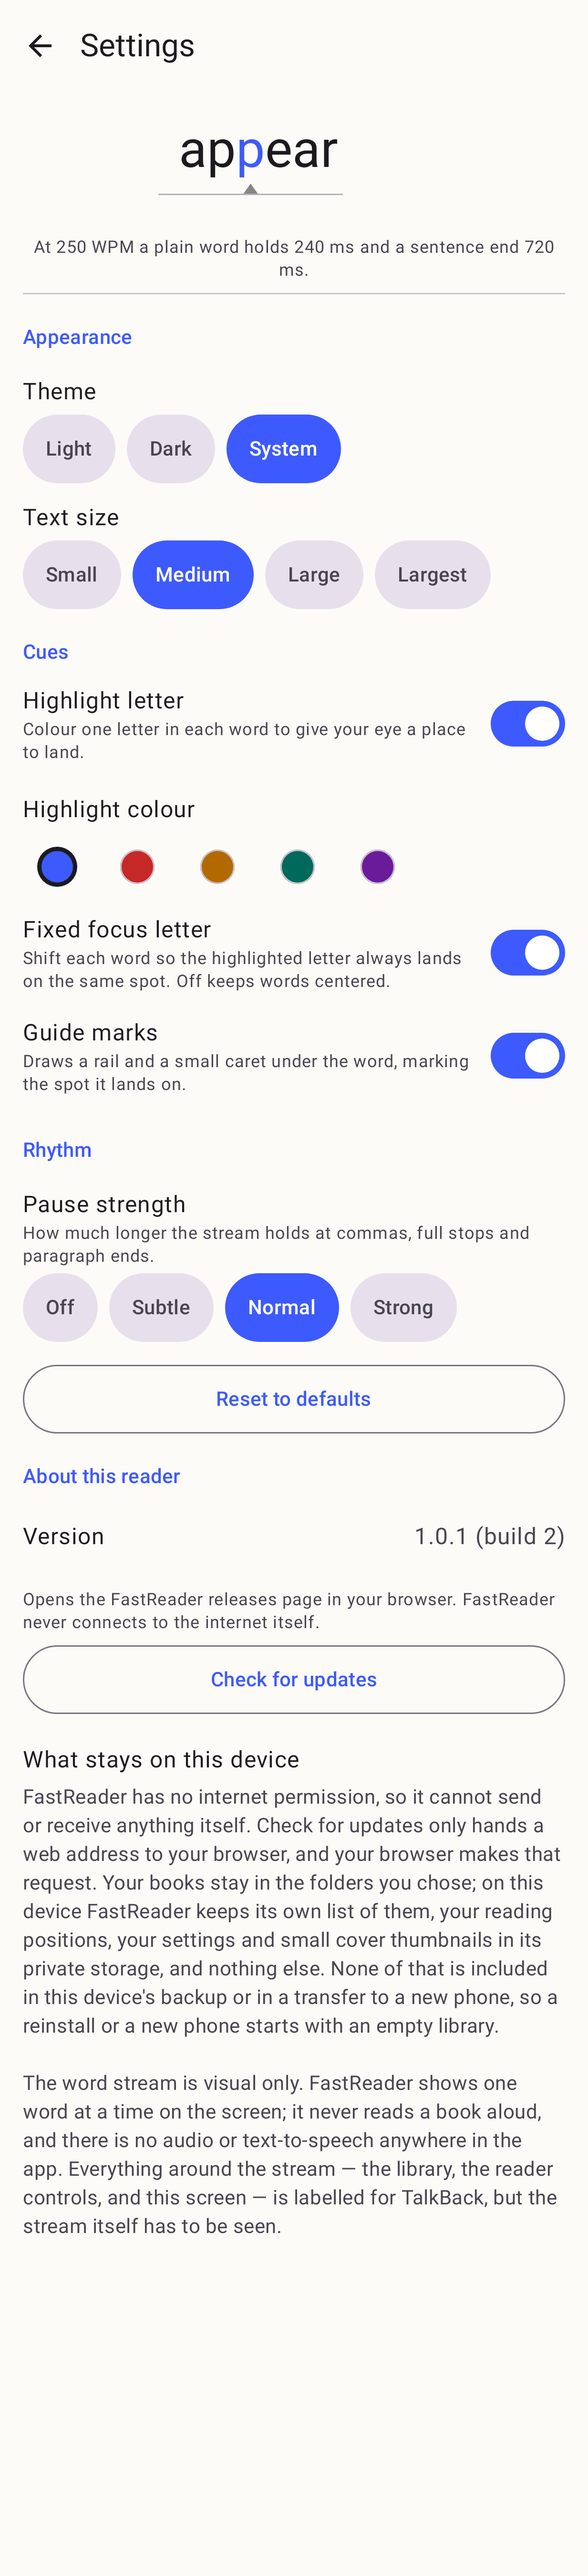
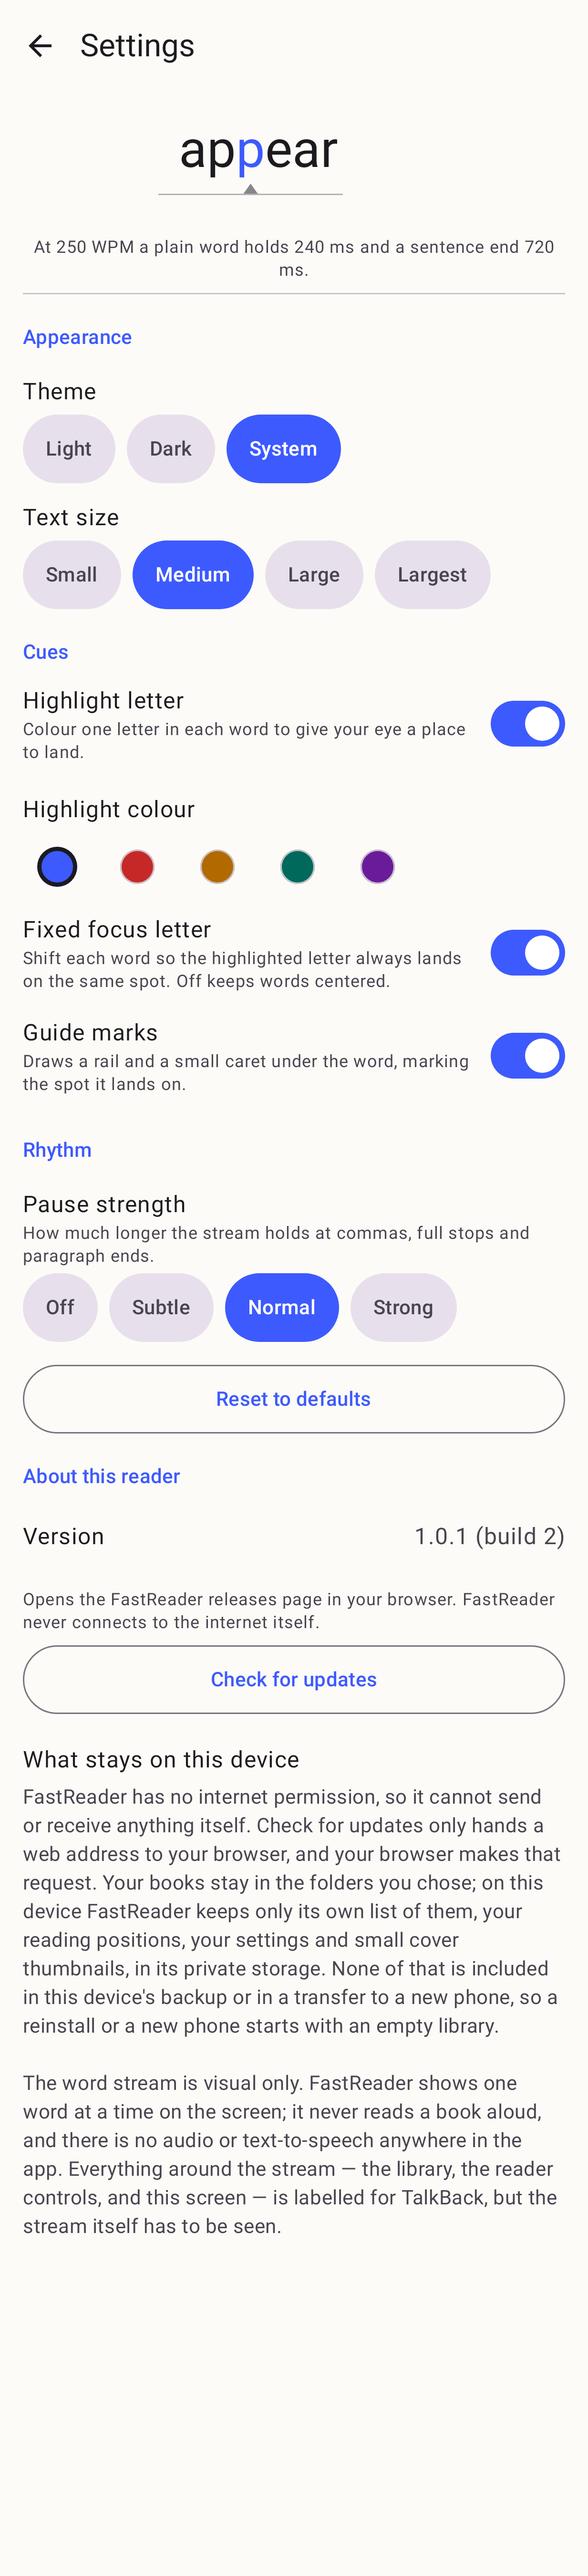
Exclude every backup domain, and record the emulator proof
The first version of res/xml/data_extraction_rules.xml excluded root,
device_root and external only. That is not enough, and the emulator said
so: a build carrying it still handed the whole catalog, both cover files
and the theme mirror to the backup transport. The domains are siblings,
not a hierarchy — files/, databases/ and shared_prefs/ are the separate
file, database and sharedpref domains — so all nine are now listed in
both sections, and in the API 26-30 rules as well. AppVersionTest holds
the full list rather than a sample of it.

The control that caught this is in docs/evidence/46/: the same seeded
library (two books, one read, settings written) backed up through both
the local transport and the GMS device-to-device transport, under three
builds that differ only in the manifest. The baseline moves 9,728 bytes
on both; allowBackup="true" with the rules moves nothing, which is what
proves the rules file is parsed and honoured; the shipped build is
refused outright on the cloud path and empty on the transfer path.

The privacy copy is reconciled with what that run actually showed. Leaf
#42 added a one-key shared preference for the splash theme, so the
statement now says FastReader keeps "only" its list, positions, settings
and thumbnails rather than "nothing else", and the mapping table names
the mirror. Goldens re-recorded for the new wording.

Changed region(s): [[0.0616, 0.7467, 0.5239, 0.7778], [0.5547, 0.7467, 0.8938, 0.7778]]

diff --git a/app/src/test/java/com/cedagova/fastreader/app/AppVersionTest.kt b/app/src/test/java/com/cedagova/fastreader/app/AppVersionTest.kt
@@ -104,11 +104,27 @@ class AppVersionTest {
         listOf("cloud-backup", "device-transfer").forEach { section ->
             assertTrue("$section is missing", rules.contains("<$section>"))
         }
-        listOf("root", "device_root", "external").forEach { domain ->
+        // Every domain, in both sections. The domains are siblings rather than a
+        // hierarchy: a build excluding only `root` still handed files/ and
+        // shared_prefs/ to the backup transport on the emulator, so a shortened
+        // list here is a silent regression rather than a tidier file.
+        val domains = listOf(
+            "root", "file", "database", "sharedpref", "external",
+            "device_root", "device_file", "device_database", "device_sharedpref",
+        )
+        domains.forEach { domain ->
             assertEquals(
-                "the $domain domain should be excluded from both sections",
+                "the $domain domain should be excluded from both extraction sections",
                 2,
                 Regex("""<exclude domain="$domain"\s*/>""").findAll(rules).count(),
+            )
+        }
+        val legacyRules = repositoryFile("app/src/main/res/xml/backup_rules.xml").readText()
+        assertFalse("something has been opted back in", legacyRules.contains("<include"))
+        domains.forEach { domain ->
+            assertTrue(
+                "the $domain domain should be excluded from the API 26-30 rules",
+                legacyRules.contains("""<exclude domain="$domain" path="." />"""),
             )
         }
     }

diff --git a/docs/privacy-statement.md b/docs/privacy-statement.md
@@ -13,10 +13,10 @@ unit tests go red until the other matches.
 FastReader has no internet permission, so it cannot send or receive anything
 itself. Check for updates only hands a web address to your browser, and your
 browser makes that request. Your books stay in the folders you chose; on this
-device FastReader keeps its own list of them, your reading positions, your
-settings and small cover thumbnails in its private storage, and nothing else.
-None of that is included in this device's backup or in a transfer to a new
-phone, so a reinstall or a new phone starts with an empty library.
+device FastReader keeps only its own list of them, your reading positions, your
+settings and small cover thumbnails, in its private storage. None of that is
+included in this device's backup or in a transfer to a new phone, so a reinstall
+or a new phone starts with an empty library.
 <!-- privacy-statement:end -->
 
 ## What each sentence rests on
@@ -27,8 +27,8 @@ observed doing. Nothing here is an intention.
 | Sentence | What makes it true | How it was checked |
 | --- | --- | --- |
 | No internet permission, so it cannot send or receive anything itself. | `AndroidManifest.xml` declares no `<uses-permission>` at all, so `android.permission.INTERNET` is absent from the merged manifest and the packaged APK. | `aapt2 dump badging` on the built APK lists no permissions; `scripts/release.sh` fails the release outright if `android.permission.INTERNET` ever appears (REQ-050). |
-| Check for updates only hands a web address to your browser. | `SettingsRoute` starts `ACTION_VIEW` for `https://github.com/cedagova/fastReader/releases`; there is no HTTP client anywhere in the app, and without the permission there could not be one. | Emulator: tapping the button leaves FastReader and lands in the browser on the releases page (`docs/evidence/46/`). |
-| Books stay in the folders you chose. | Books are read through SAF document URIs. No code path copies a book: `CatalogIngestor` streams for metadata and a cover, and the reader streams the text. | Emulator: after adding a folder, the app's private storage holds no `.epub`. |
-| FastReader keeps its own list of them, reading positions, settings and small cover thumbnails in its private storage, and nothing else. | `LibraryGraph` wires exactly two stores, both under `filesDir`: `catalog/catalog.json` (books, positions, settings) and `covers/`. There is no `SharedPreferences`, no database, and nothing written to external storage. | Emulator: `run-as com.cedagova.fastreader ls -R` after real use lists only `files/catalog` and `files/covers`. |
-| None of that is included in this device's backup or in a transfer to a new phone. | `android:allowBackup="false"` plus `res/xml/data_extraction_rules.xml`, which excludes `root`, `device_root` and `external` from both `<cloud-backup>` and `<device-transfer>` (AD-11). | Emulator: the platform backup manager refuses to back the package up, where the same run against the pre-change build captured its data (`docs/evidence/46/`). |
-| A reinstall or a new phone starts with an empty library. | Follows from the line above, and from SAF grants not surviving a reinstall either (D3). | Emulator: uninstall and reinstall leaves the empty-library state. |
+| Check for updates only hands a web address to your browser. | `SettingsRoute` starts `ACTION_VIEW` for `https://github.com/cedagova/fastReader/releases`; there is no HTTP client anywhere in the app, and without the permission there could not be one. | Emulator: tapping the button starts `ACTION_VIEW` for that URL and the browser takes the foreground from FastReader (`docs/evidence/46/update-handoff-browser-phone-mid-api36.png`). |
+| Books stay in the folders you chose. | Books are read through SAF document URIs. No code path copies a book: `CatalogIngestor` streams for metadata and a cover, and the reader streams the text. | Emulator: after adding two books, the private data directory holds no `.epub` — only the catalog, the covers and the theme mirror. |
+| FastReader keeps only its own list of them, reading positions, settings and small cover thumbnails, in its private storage. | `LibraryGraph` wires two stores under `filesDir` — `catalog/catalog.json` (books, positions and settings) and `covers/` — and `SharedPreferencesThemeMirror` keeps a one-key copy of the theme in `shared_prefs/launch-theme.xml` so the splash resolves correctly. No database, nothing on external storage. | Emulator, `run-as com.cedagova.fastreader ls -R .` after adding two books and reading one: `files/catalog/catalog.json`, two files in `files/covers/`, `shared_prefs/launch-theme.xml`, and the platform's own zero-byte `files/profileInstalled` marker. Nothing else, and `databases/`, `cache/` and `no_backup/` are empty. |
+| None of that is included in this device's backup or in a transfer to a new phone. | `android:allowBackup="false"` plus `res/xml/data_extraction_rules.xml`, which excludes every domain — `root`, `file`, `database`, `sharedpref`, `external` and their `device_*` twins — from both `<cloud-backup>` and `<device-transfer>` (AD-11). The attribute alone is not enough: Android 12+ device transfer ignores it. | Emulator, on the same seeded library: the cloud transport answers "Backup is not allowed" and the device-transfer transport takes zero bytes, where the pre-change build handed both 9,728 bytes containing `catalog.json` and the covers (`docs/evidence/46/backup-run-phone-mid-api36.txt`). |
+| A reinstall or a new phone starts with an empty library. | Follows from the line above, and from SAF grants not surviving a reinstall either (D3). | Emulator: uninstall, reinstall, launch — the empty-library state, with a fresh `catalog.json` whose `books` array is empty (`docs/evidence/46/reinstall-empty-library-phone-mid-api36.png`). |
